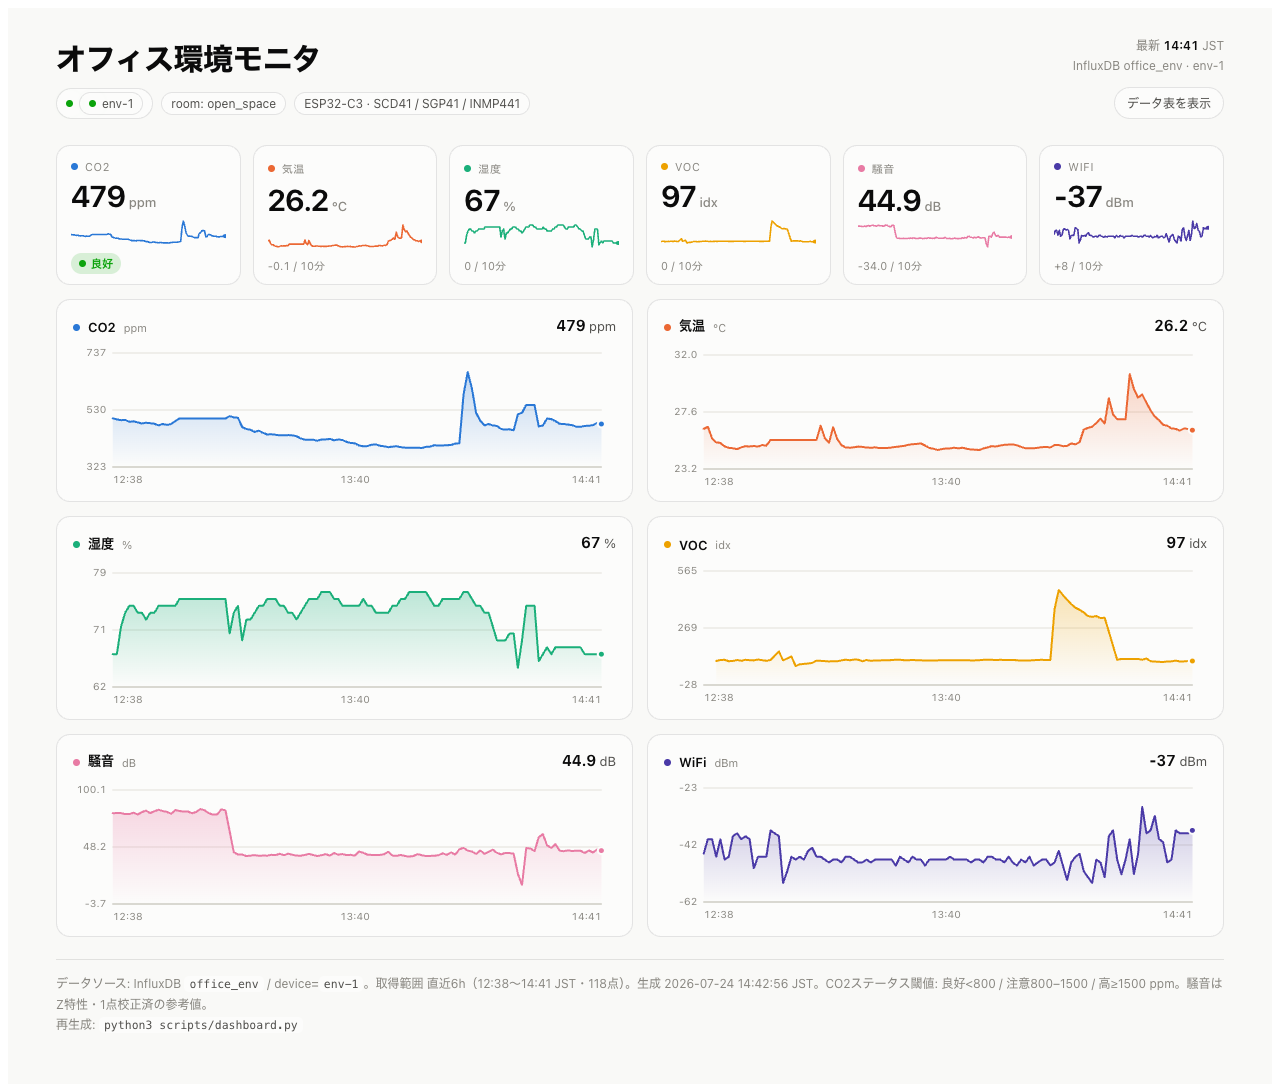
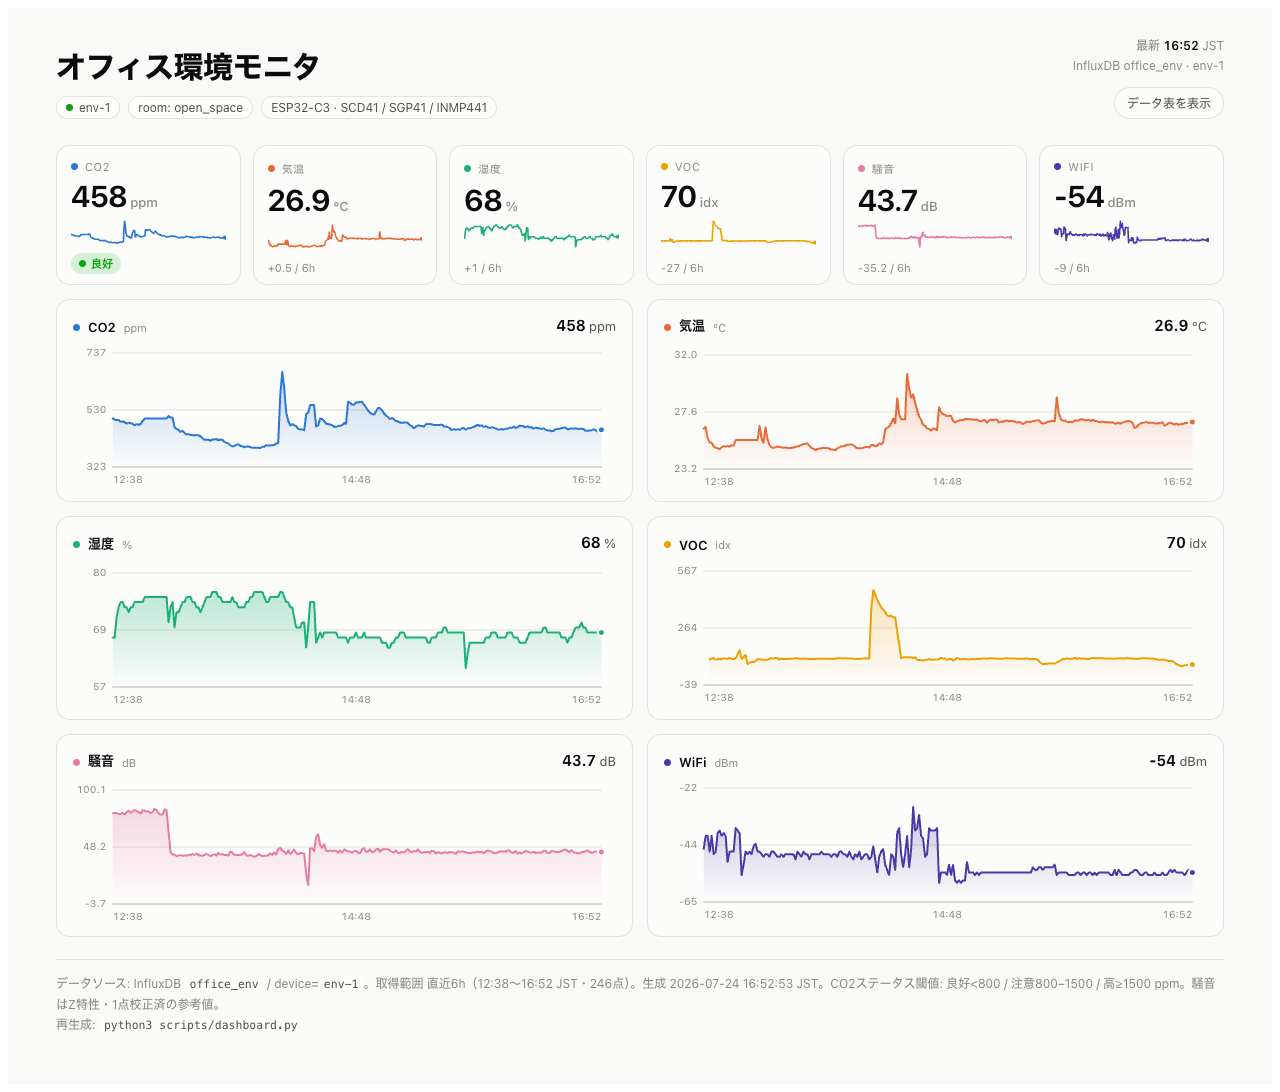
refactor: dashboard.py/テンプレ整理・lambda重複計算解消
/simplify のクリーンアップ適用（挙動不変、リスク大は見送り）:
- dashboard.py: room をメインfetchに統合し2本目クエリを削除
  （未使用引数も解消）、token二重strip→1回、URL解析をurllib.parse化、
  parse_csvをFIELDSテーブル駆動＋numクロージャ再定義を解消
- テンプレ: 死にコード(__CALIB__/校正注釈)を削除、DEVLABELのchip二重生成を解消、
  deltaラベルを--range連動、pointermove毎のgetBoundingClientRect(強制リフロー)を
  ホバー開始時キャッシュに変更
- office-env-base.yaml: 表示lambdaの millis()/300000UL 二重計算を1変数に
- docs/img/dashboard.png: 再生成

注: yamlのlambda変更はコンパイル未確認・env-1へ未フラッシュ（前回同様）。

diff --git a/scripts/dashboard_template.html b/scripts/dashboard_template.html
@@ -167,7 +167,7 @@
 
 <script>
 const DATA = __DATA__;
-const CALIB_IDX = __CALIB__;
+const RANGE = "__RANGE__";
 
 const METRICS = [
   {k:"co2",  label:"CO2",     unit:"ppm", color:"var(--co2)",   dec:0, status:co2Status},
@@ -203,7 +203,7 @@ METRICS.forEach(m=>{
   } else {
     const delta = (cur!=null && f!=null) ? cur - f : null;
     const sign = delta>0?"+":"";
-    foot = `<span style="font-size:11px;color:var(--muted);font-variant-numeric:tabular-nums">${delta==null?"":sign+delta.toFixed(m.dec)+" / 10分"}</span>`;
+    foot = `<span style="font-size:11px;color:var(--muted);font-variant-numeric:tabular-nums">${delta==null?"":sign+delta.toFixed(m.dec)+" / "+RANGE}</span>`;
   }
   el.innerHTML = `
     <div class="lab"><span class="dot" style="background:${m.color}"></span>${m.label}</div>
@@ -244,12 +244,6 @@ METRICS.forEach(m=>{
   const X = i => mL + (n?i/n:0.5)*(W-mL-mR);
   const Y = v => mT + (1-(v-y0)/(y1-y0))*(H-mT-mB);
 
-  let annot="";
-  if (m.k==="laeq" && typeof CALIB_IDX==="number"){
-    const axx=X(CALIB_IDX);
-    annot = `<line x1="${axx.toFixed(1)}" y1="${mT}" x2="${axx.toFixed(1)}" y2="${H-mB}" stroke="var(--muted)" stroke-width="1" stroke-dasharray="2 3"/>`
-      + `<text class="ax" x="${(axx+3).toFixed(1)}" y="${mT+9}" text-anchor="start" fill="var(--ink-2)">校正 81.1</text>`;
-  }
   const cur = last(vals);
   const card = document.createElement("div");
   card.className="card";
@@ -288,7 +282,7 @@ METRICS.forEach(m=>{
       </linearGradient></defs>
       ${grid}
       <line class="base" x1="${mL}" y1="${H-mB}" x2="${W-mR}" y2="${H-mB}"/>
-      ${ylab}${xlab}${annot}
+      ${ylab}${xlab}
       <path d="${area}" fill="url(#${gid})"/>
       <path d="${line}" fill="none" stroke="${m.color}" stroke-width="2" vector-effect="non-scaling-stroke" stroke-linecap="round" stroke-linejoin="round"/>
       <circle cx="${X(lp.i).toFixed(1)}" cy="${Y(lp.v).toFixed(1)}" r="3.4" fill="${m.color}" stroke="var(--surface)" stroke-width="2"/>
@@ -299,9 +293,12 @@ METRICS.forEach(m=>{
 
   const svg = card.querySelector("svg");
   const cx = card.querySelector("#cx_"+m.k), cd = card.querySelector("#cd_"+m.k);
+  // rect はホバー開始時に1回だけ取得（pointermove毎の getBoundingClientRect による強制リフローを回避）
+  let rect = null;
+  svg.addEventListener("pointerenter", ()=>{ rect = svg.getBoundingClientRect(); });
   svg.addEventListener("pointermove", ev=>{
-    const r = svg.getBoundingClientRect();
-    const px = (ev.clientX - r.left)/r.width * W;
+    if (!rect) rect = svg.getBoundingClientRect();
+    const px = (ev.clientX - rect.left)/rect.width * W;
     // nearest point
     let best=pts[0], bd=1e9;
     pts.forEach(p=>{ const d=Math.abs(X(p.i)-px); if(d<bd){bd=d;best=p;} });

diff --git a/scripts/dashboard.py b/scripts/dashboard.py
@@ -23,13 +23,17 @@ import re
 import sys
 import urllib.request
 import urllib.error
+import urllib.parse
 import webbrowser
 from datetime import datetime, timezone, timedelta
 
 ROOT = os.path.dirname(os.path.dirname(os.path.abspath(__file__)))
 JST = timezone(timedelta(hours=9))
 
-METRIC_KEYS = ["co2", "temp", "rh", "voc", "laeq", "rssi"]
+# フィールド定義（単一の出所）: (キー, 整数として丸めるか)
+FIELDS = [("co2", True), ("temp", False), ("rh", True),
+          ("voc", True), ("laeq", False), ("rssi", True)]
+METRIC_KEYS = [k for k, _ in FIELDS]
 
 
 def load_secrets(path):
@@ -50,21 +54,17 @@ def load_secrets(path):
 
 def resolve_conn(secrets):
     """クエリURLとトークンを解決（環境変数 > secrets.yaml）。"""
-    token = os.environ.get("INFLUX_TOKEN")
+    token = (os.environ.get("INFLUX_TOKEN") or secrets.get("influx_auth_header", "")).replace("Token ", "").strip()
     query_url = os.environ.get("INFLUX_QUERY_URL")
-
-    if not token:
-        auth = secrets.get("influx_auth_header", "")
-        token = auth.replace("Token ", "").strip()
-    token = token.replace("Token ", "").strip()
 
     if not query_url:
         write_url = secrets.get("influx_write_url", "")
-        # write?...&org=ID... から query?org=ID を組み立てる
-        m_host = re.match(r"(https?://[^/]+)/api/v2/write", write_url)
-        m_org = re.search(r"[?&]org=([^&]+)", write_url)
-        if m_host and m_org:
-            query_url = f"{m_host.group(1)}/api/v2/query?org={m_org.group(1)}"
+        if write_url:
+            # write URL の host と org から query URL を組み立てる
+            u = urllib.parse.urlsplit(write_url)
+            org = urllib.parse.parse_qs(u.query).get("org", [""])[0]
+            if u.netloc and org:
+                query_url = f"{u.scheme}://{u.netloc}/api/v2/query?org={org}"
 
     if not token or not query_url:
         sys.exit("認証情報が見つからない。secrets.yaml を用意するか INFLUX_TOKEN / INFLUX_QUERY_URL を設定して。")
@@ -76,8 +76,8 @@ def fetch(query_url, token, device, rng):
         f'from(bucket:"office_env") |> range(start:-{rng})\n'
         f'  |> filter(fn:(r)=> r.device=="{device}")\n'
         f'  |> filter(fn:(r)=> ' + " or ".join(f'r._field=="{k}"' for k in METRIC_KEYS) + ')\n'
-        f'  |> pivot(rowKey:["_time"], columnKey:["_field"], valueColumn:"_value")\n'
-        f'  |> keep(columns:["_time",' + ",".join(f'"{k}"' for k in METRIC_KEYS) + '])\n'
+        f'  |> pivot(rowKey:["_time","room"], columnKey:["_field"], valueColumn:"_value")\n'
+        f'  |> keep(columns:["_time","room",' + ",".join(f'"{k}"' for k in METRIC_KEYS) + '])\n'
         f'  |> sort(columns:["_time"])'
     )
     req = urllib.request.Request(
@@ -100,7 +100,8 @@ def fetch(query_url, token, device, rng):
 
 
 def parse_csv(text):
-    rows = []
+    """CSV を行データに変換し (rows, room) を返す。"""
+    rows, room = [], ""
     reader = csv.reader(io.StringIO(text))
     header = None
     for line in reader:
@@ -117,26 +118,15 @@ def parse_csv(text):
             continue
         # 例: 2026-07-24T03:38:24.777Z → 小数秒を除去しつつ UTC のまま aware 化
         iso = re.sub(r"\.\d+", "", t).replace("Z", "+00:00")
-        dt = datetime.fromisoformat(iso)
-        jst = dt.astimezone(JST)
+        jst = datetime.fromisoformat(iso).astimezone(JST)
+        room = rec.get("room", "") or room
 
-        def num(k, intish):
+        row = {"t": jst.strftime("%H:%M")}
+        for k, intish in FIELDS:
             v = rec.get(k, "").strip()
-            if v == "":
-                return None
-            f = float(v)
-            return int(round(f)) if intish else round(f, 2)
-
-        rows.append({
-            "t": jst.strftime("%H:%M"),
-            "co2": num("co2", True),
-            "temp": num("temp", False),
-            "rh": num("rh", True),
-            "voc": num("voc", True),
-            "laeq": num("laeq", False),
-            "rssi": num("rssi", True),
-        })
-    return rows
+            row[k] = (int(round(float(v))) if intish else round(float(v), 2)) if v else None
+        rows.append(row)
+    return rows, room
 
 
 def build_html(rows, device, room, rng):
@@ -155,30 +145,12 @@ def build_html(rows, device, room, rng):
     tpl = head + tpl + "\n</body></html>\n"
     html = (tpl
             .replace("__DATA__", json.dumps(rows, ensure_ascii=False))
-            .replace("__CALIB__", "null")
-            .replace("__DEVLABEL__", f'<span class="chip"><span class="dot pulse" style="background:var(--good)"></span>{device}</span>')
+            .replace("__RANGE__", rng)
+            .replace("__DEVLABEL__", device)
             .replace("__ROOMLABEL__", f"room: {room}")
             .replace("__META_LINE__", f"InfluxDB office_env · {device}")
             .replace("__FOOTER__", footer))
     return html
-
-
-def guess_room(rows_device, query_url, token, device, rng):
-    """room タグを1点だけ引く（表示用）。取れなければ空。"""
-    flux = (f'from(bucket:"office_env") |> range(start:-{rng}) '
-            f'|> filter(fn:(r)=> r.device=="{device}") |> last() '
-            f'|> keep(columns:["room"]) |> limit(n:1)')
-    req = urllib.request.Request(query_url, data=flux.encode(), headers={
-        "Authorization": f"Token {token}", "Content-Type": "application/vnd.flux",
-        "Accept": "application/csv"}, method="POST")
-    try:
-        with urllib.request.urlopen(req, timeout=15) as resp:
-            for line in csv.reader(io.StringIO(resp.read().decode())):
-                if line and line[-1] and line[-1] not in ("room", "_result"):
-                    return line[-1]
-    except Exception:
-        pass
-    return ""
 
 
 def main():
@@ -194,10 +166,9 @@ def main():
 
     print(f"取得中: device={args.device} range=-{args.range} ...")
     csv_text = fetch(query_url, token, args.device, args.range)
-    rows = parse_csv(csv_text)
+    rows, room = parse_csv(csv_text)
     if not rows:
         sys.exit(f"データなし（device={args.device}, range=-{args.range}）。デバイス名か期間を確認して。")
-    room = guess_room(rows, query_url, token, args.device, args.range)
 
     html = build_html(rows, args.device, room or "?", args.range)
     os.makedirs(os.path.dirname(args.out), exist_ok=True)
